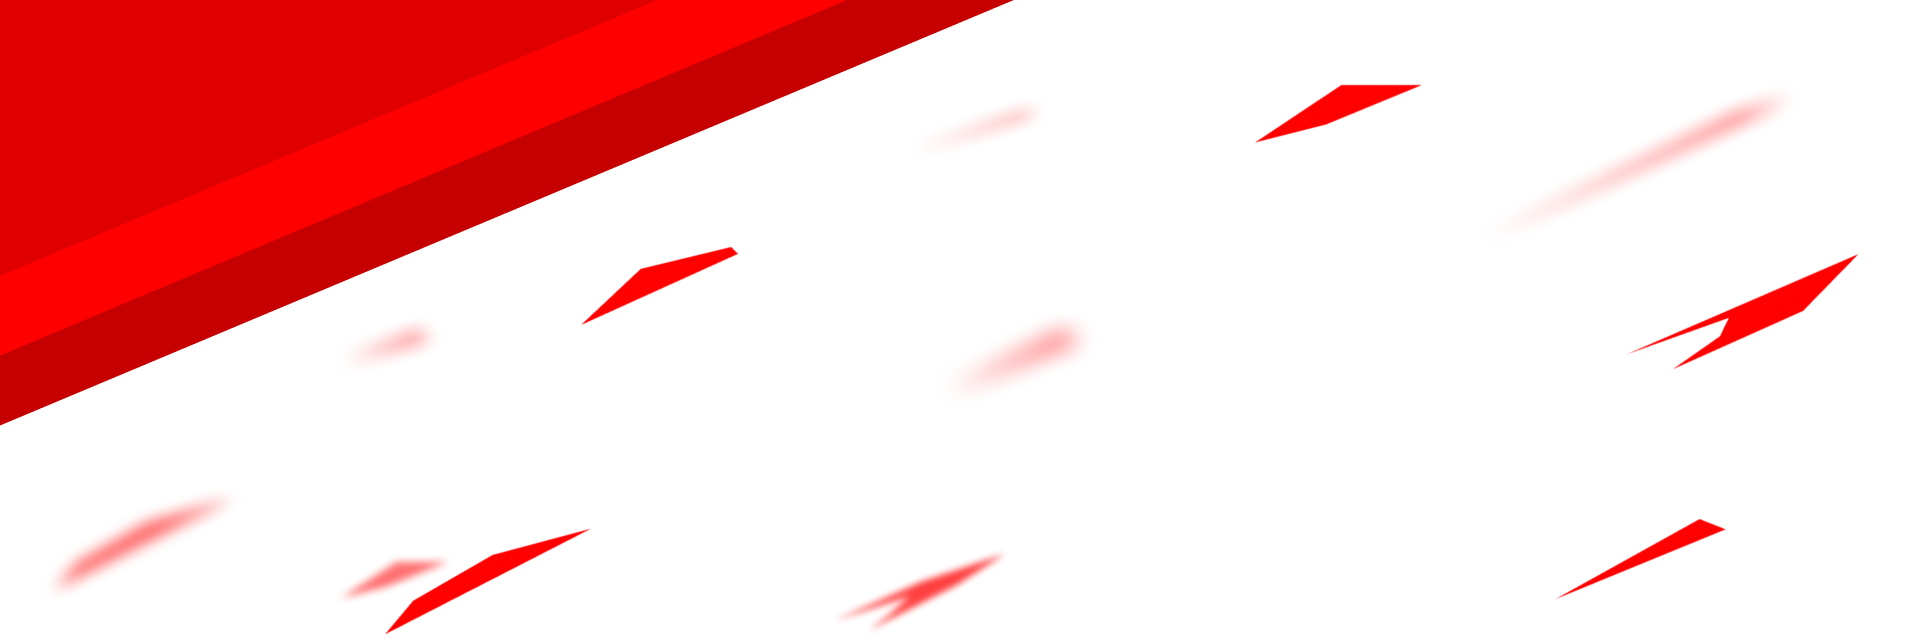
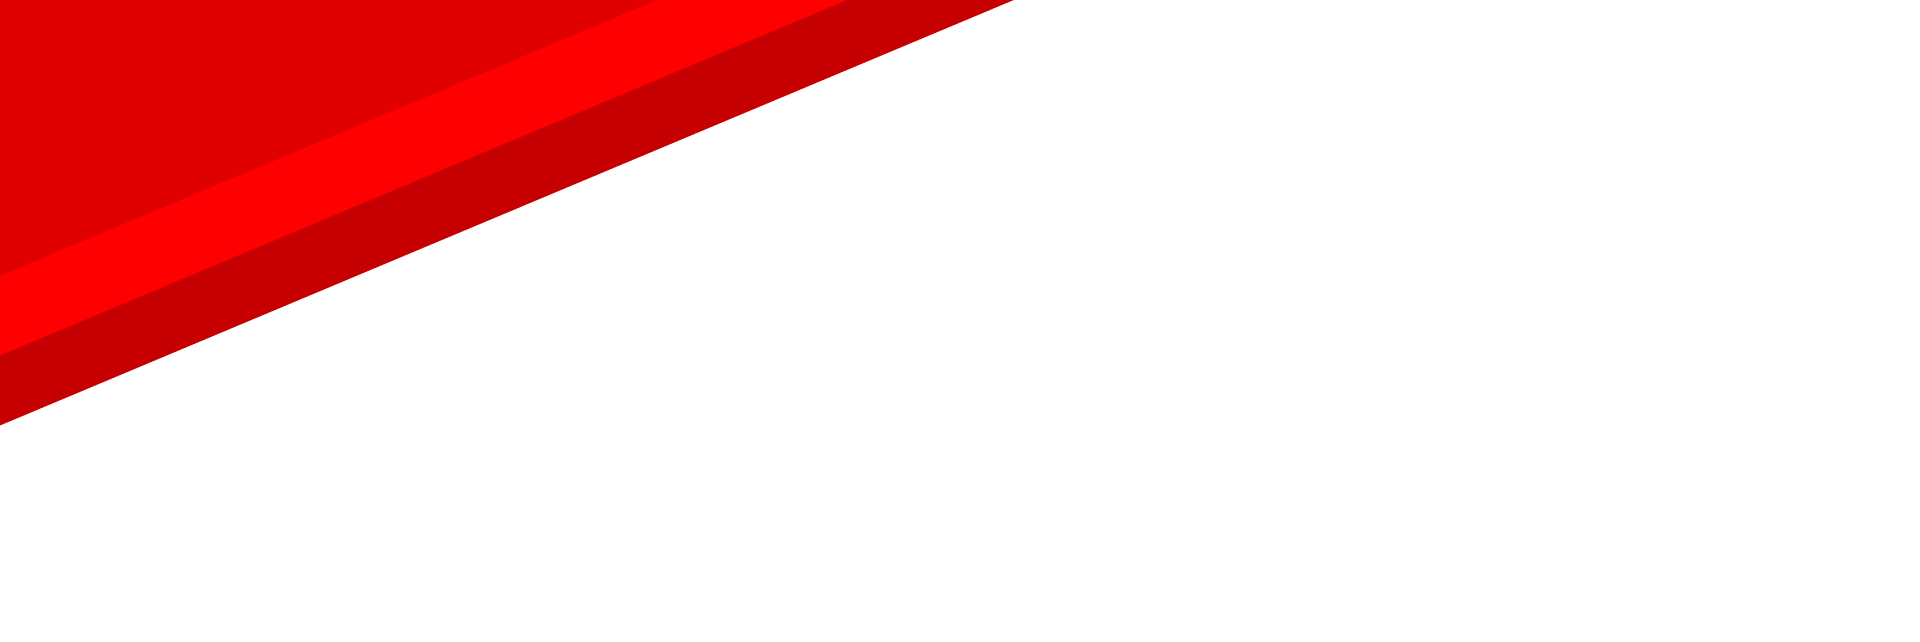
987

diff --git a/index.html b/index.html
@@ -10,7 +10,7 @@
     </head>
     
 <style>
-body{background:linear-gradient(186deg, #81D5E9 0%, #C7EFF9 6%, #F6F6F6 40%); background-repeat: no-repeat; color: #242325; font-family: 'Poppins'; font-size:16px; font-weight: 300; margin: 0;}
+body{background:linear-gradient(186deg, #81D5E9 0%, #C7EFF9 6%, #F6F6F6 40%); background-repeat: no-repeat; color: #242325; font-family: 'Poppins'; font-size:16px; font-weight: 300; margin: 0; overflow-x: hidden;}
 /* #HEADER */
 .header{background:url(img/header.png) top center no-repeat; padding: 236px 10px 200px; box-sizing:border-box;}
 .header > div{display:flex; flex-wrap:wrap; max-width:1024px; margin: 0 auto;}
@@ -44,10 +44,11 @@ body{background:linear-gradient(186deg, #81D5E9 0%, #C7EFF9 6%, #F6F6F6 40%); ba
 .portfolio h3{font-family: 'Montserrat'; font-size: 90px; font-weight:700; color: #FE0000; margin:0 0 20px; line-height: 63px; text-align:right;}
 .portfolio #grid {display: grid; grid-template-columns: repeat(auto-fit, minmax(300px, 1fr)); gap: 20px; transition: transform 450ms cubic-bezier(0.08, 0.66, 0.22, 1), opacity 400ms cubic-bezier(0.08, 0.66, 0.22, 1);}
 .portfolio #grid.off{transform:translateX(-600px); opacity: 0;}
-.portfolio .work{position: relative; opacity: 0; border-radius: 15px; box-shadow: 0 7px 18px -2px rgba(35,37,37,0.4); overflow:hidden; cursor: pointer; transition: 1s ease-in-out}
+.portfolio .work{position: relative; opacity: 0; border-radius: 15px; box-shadow: 0 7px 18px -2px rgba(35,37,37,0.4); overflow:hidden; cursor: pointer; transform: scale(0.75); transform-origin: center; transition: 700ms ease-in-out}
+.portfolio .work.visible{opacity: 1; transform: scale(1);}
 
 .portfolio .work::after {content: ""; position: absolute; width: 150%; height: 300%; transform: scale(1) rotateZ(-45deg); background: white; top: 550px; left: -30%; opacity: 0.1; transition: 500ms cubic-bezier(0.07, 0.74, 0.58, 1);}
-.portfolio .work:hover::after {top: 0px;}
+.portfolio .work:hover::after {top: 0;}
 .portfolio .work img{display: block; margin: 0 auto; width:100%;}
 
 .portfolio .links {display: flex; flex-wrap:wrap; justify-content: flex-end; gap: 10px;}
@@ -58,7 +59,7 @@ body{background:linear-gradient(186deg, #81D5E9 0%, #C7EFF9 6%, #F6F6F6 40%); ba
 .portfolio .work-details {display: none; opacity:0; transition: 600ms ease-in-out;}
 .portfolio .cat {font-size: 20px; font-weight: 700; color: #FE0000; margin: 0 0 5px;}
 .portfolio .block{margin: 0 0 30px;}
-.portfolio .block-flex {display: flex; flex-wrap: wrap; justify-content: space-between; align-items: flex-start; padding: 0px 0 0 20px; margin: 0 0 0 6px; border-left: 1px solid; border-image: linear-gradient(0deg, #F6F6F6, #FE0000) 1;}
+.portfolio .block-flex {display: flex; flex-wrap: wrap; justify-content: space-between; align-items: flex-start; padding: 0 0 0 20px; margin: 0 0 0 6px; border-left: 1px solid; border-image: linear-gradient(0deg, #F6F6F6, #FE0000) 1;}
 .portfolio .block-flex div{width:50%;}
 .portfolio .block-flex img{width:44%; display:block; border-radius: 15px;}
 .portfolio h4 {font-size: 32px; font-family: 'Poppins'; font-weight: 500; line-height: 37px; margin: 0;}
@@ -128,9 +129,11 @@ body{font-size: 14px;}
 </style>
     
     <body>
-        
         <!--#HEADER-->
         <section class="header">
+            <star id="stars1" style="position:absolute; top:0; left:0; width: 100%; background: url('img/stars1.png') center no-repeat; background-size:cover; min-height: 640px; z-index: -1;"></star>
+            <star id="stars2" style="position:absolute; top:0; left:0; width: 100%; background: url('img/stars2.png') center no-repeat; background-size:cover; min-height: 640px; z-index: -2;"></star>
+            <star id="stars3" style="position:absolute; top:0; left:0; width: 100%; background: url('img/stars3.png') center no-repeat; background-size:cover; min-height: 640px; z-index: -3;"></star>
             <div>
                 <div>
                     <h1>TEREMY<br>ALEX</h1>
@@ -690,9 +693,11 @@ body{font-size: 14px;}
 
     //GRID ANIMATION
     const gridAnim = new IntersectionObserver(entries => {
-        entries.forEach(entry => {
+        entries.forEach((entry, index) => {
             if (entry.isIntersecting) {
-                entry.target.style.opacity = "1"
+                setTimeout(() => {
+                    entry.target.classList.add('visible')
+                }, 150*index)
             }
         })
     })
@@ -739,6 +744,46 @@ body{font-size: 14px;}
           }
         }, 1)
     }
+
+    const stars = [
+        { element: document.getElementById('stars1'), factor: 10 },
+        { element: document.getElementById('stars2'), factor: 25 },
+        { element: document.getElementById('stars3'), factor: 35 }
+    ];
+
+    const state = stars.map(() => ({
+        targetX: 0, targetY: 0, currentX: 0, currentY: 0
+    }));
+
+    window.addEventListener('mousemove', (e) => {
+        const centerX = window.innerWidth / 2;
+        const centerY = window.innerHeight / 2;
+
+        stars.forEach((star, i) => {
+            state[i].targetX = (e.clientX - centerX) / star.factor;
+            state[i].targetY = (e.clientY - centerY) / star.factor;
+        });
+    });
+
+    function animate() {
+        stars.forEach((star, i) => {
+            state[i].currentX += (state[i].targetX - state[i].currentX) * 0.05;
+            state[i].currentY += (-(state[i].targetX - state[i].currentX) * 0.48) * 0.05;
+
+            star.element.style.transform = `translate(${state[i].currentX}px, ${state[i].currentY}px)`;
+        });
+
+        requestAnimationFrame(animate);
+    }
+
+    animate();
+
+
+
+
+
+
+
 
 </script>
     
